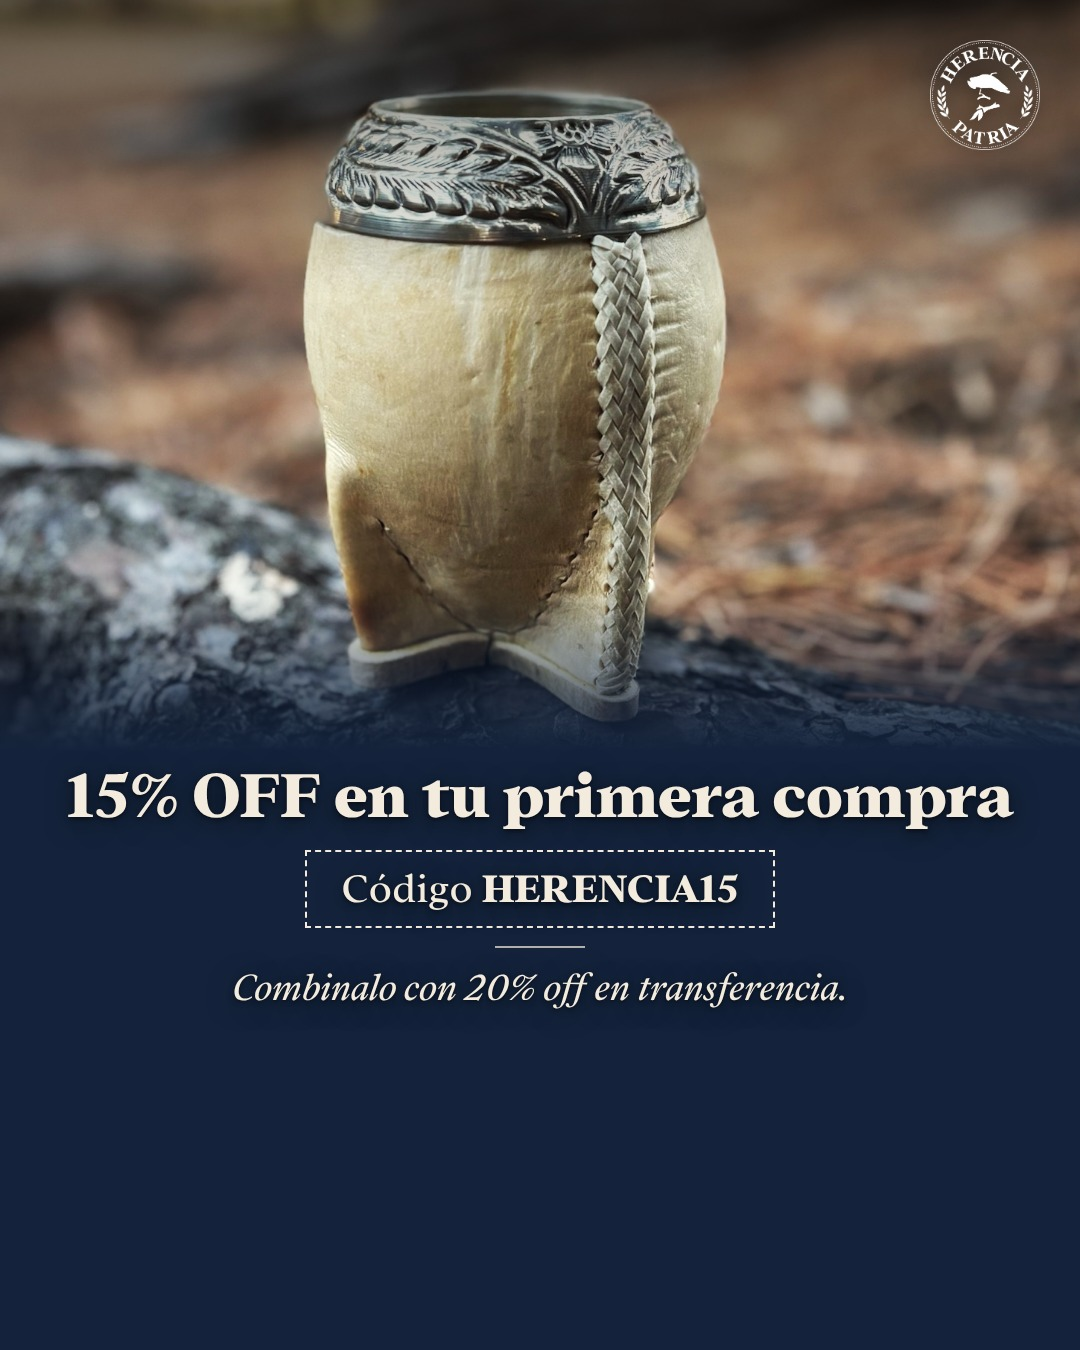
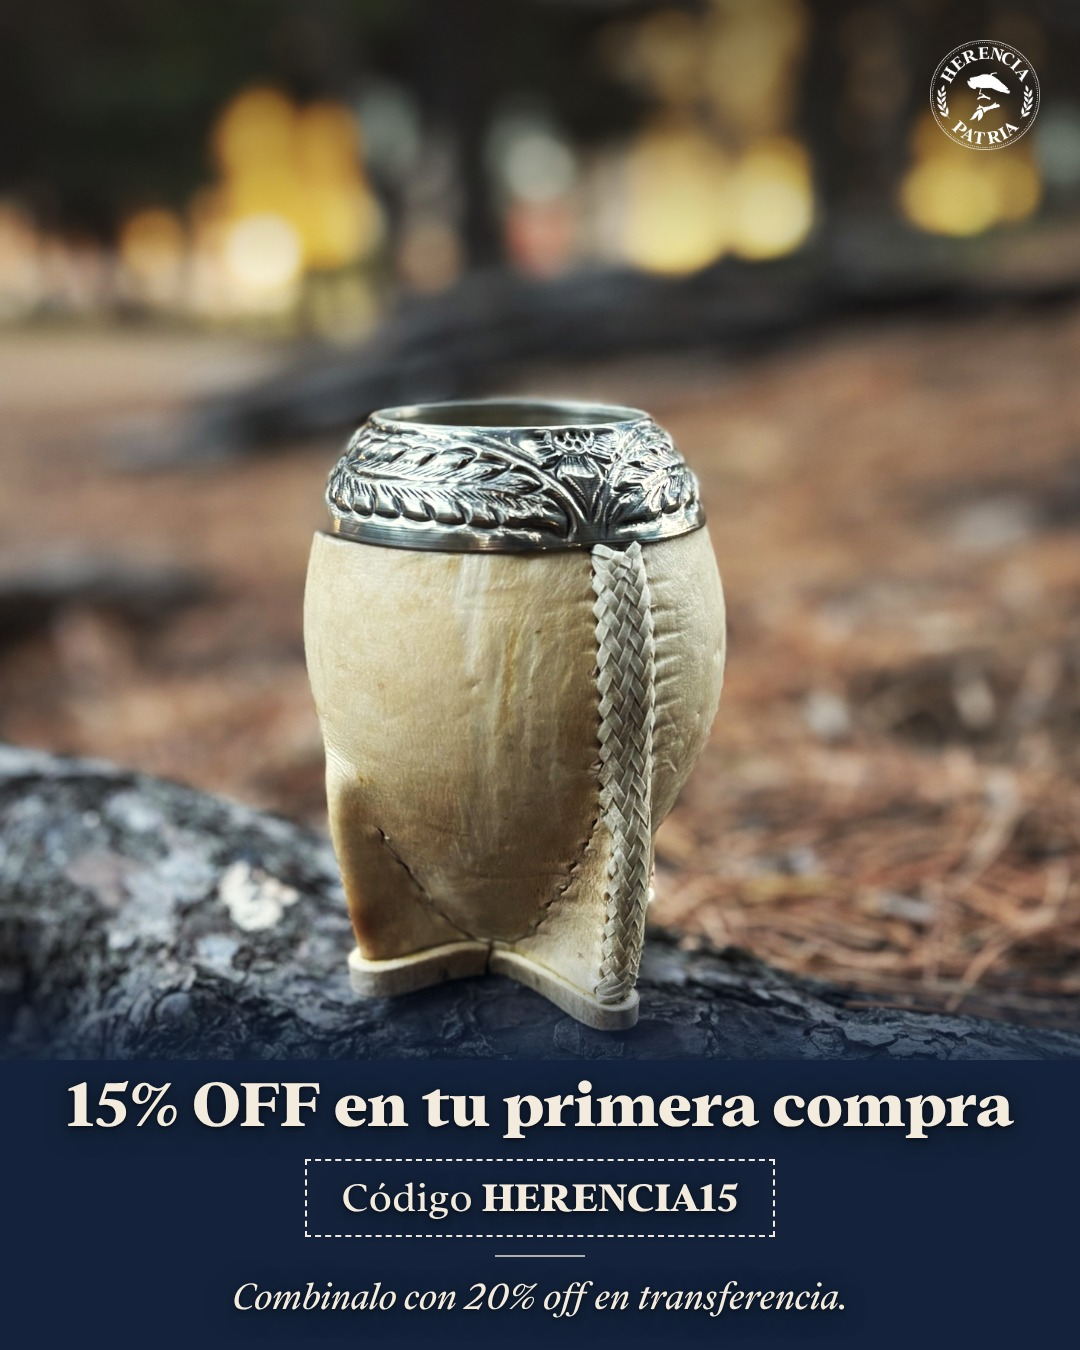
Estáticos de retargeting con las fotos nuevas del Torpedo y HERENCIA15
Claude-Session: https://claude.ai/code/session_01W2uTfCUGokKMKtzDGAbmtd

diff --git a/src/HerenciaPatria/Estaticos.tsx b/src/HerenciaPatria/Estaticos.tsx
@@ -42,9 +42,13 @@ export const AnuncioEstatico: React.FC<Estatico> = ({
   // Zona visible: en Stories la interfaz tapa ~270 px arriba y ~330 abajo.
   const top = alto ? 290 : 46;
   // Dónde va el mate: debajo del título (si hay) o cerca de arriba.
-  const mateEn = nombre ? top + (alto ? 290 : 285) : top + 40;
   // En 9:16 sobra alto: la foto se agranda para que el mate luzca más.
   const k = alto ? 1.15 : 1;
+  // Con título, el mate va debajo de él; sin título (retargeting), la foto
+  // llena el cuadro y el mate termina justo encima de la franja de texto.
+  const mateEn = nombre
+    ? top + (alto ? 290 : 285)
+    : height - (alto ? 600 : 330) - mateAlto * k;
   const fotoTop = Math.min(0, mateEn - mateY * k);
   const finMate = fotoTop + (mateY + mateAlto) * k;
   return (
@@ -80,8 +84,8 @@ export const AnuncioEstatico: React.FC<Estatico> = ({
           position: "absolute",
           left: 0,
           right: 0,
-          top: finMate - 120,
-          height: 160,
+          top: finMate - 60,
+          height: 120,
           background: `linear-gradient(to bottom, rgba(20,35,59,0), ${colors.azul})`,
         }}
       />
@@ -222,6 +226,26 @@ export const estaticos: Record<string, Estatico> = {
     altoFoto: 1919,
     mateY: 895,
     mateAlto: 625,
+    frase: "15% OFF en tu primera compra",
+    codigo: "HERENCIA15",
+    detalle: ["Combinalo con 20% off en transferencia."],
+  },
+  // Retargeting con las fotos nuevas del Torpedo (1724x2576): en la mano,
+  // con el cielo, y sobre la mesa con la bombilla.
+  RetargetingMano: {
+    foto: "torpedo-mano.jpg",
+    altoFoto: 1614,
+    mateY: 645,
+    mateAlto: 570,
+    frase: "15% OFF en tu primera compra",
+    codigo: "HERENCIA15",
+    detalle: ["Combinalo con 20% off en transferencia."],
+  },
+  RetargetingMesa: {
+    foto: "torpedo-mesa.jpg",
+    altoFoto: 1614,
+    mateY: 460,
+    mateAlto: 720,
     frase: "15% OFF en tu primera compra",
     codigo: "HERENCIA15",
     detalle: ["Combinalo con 20% off en transferencia."],
